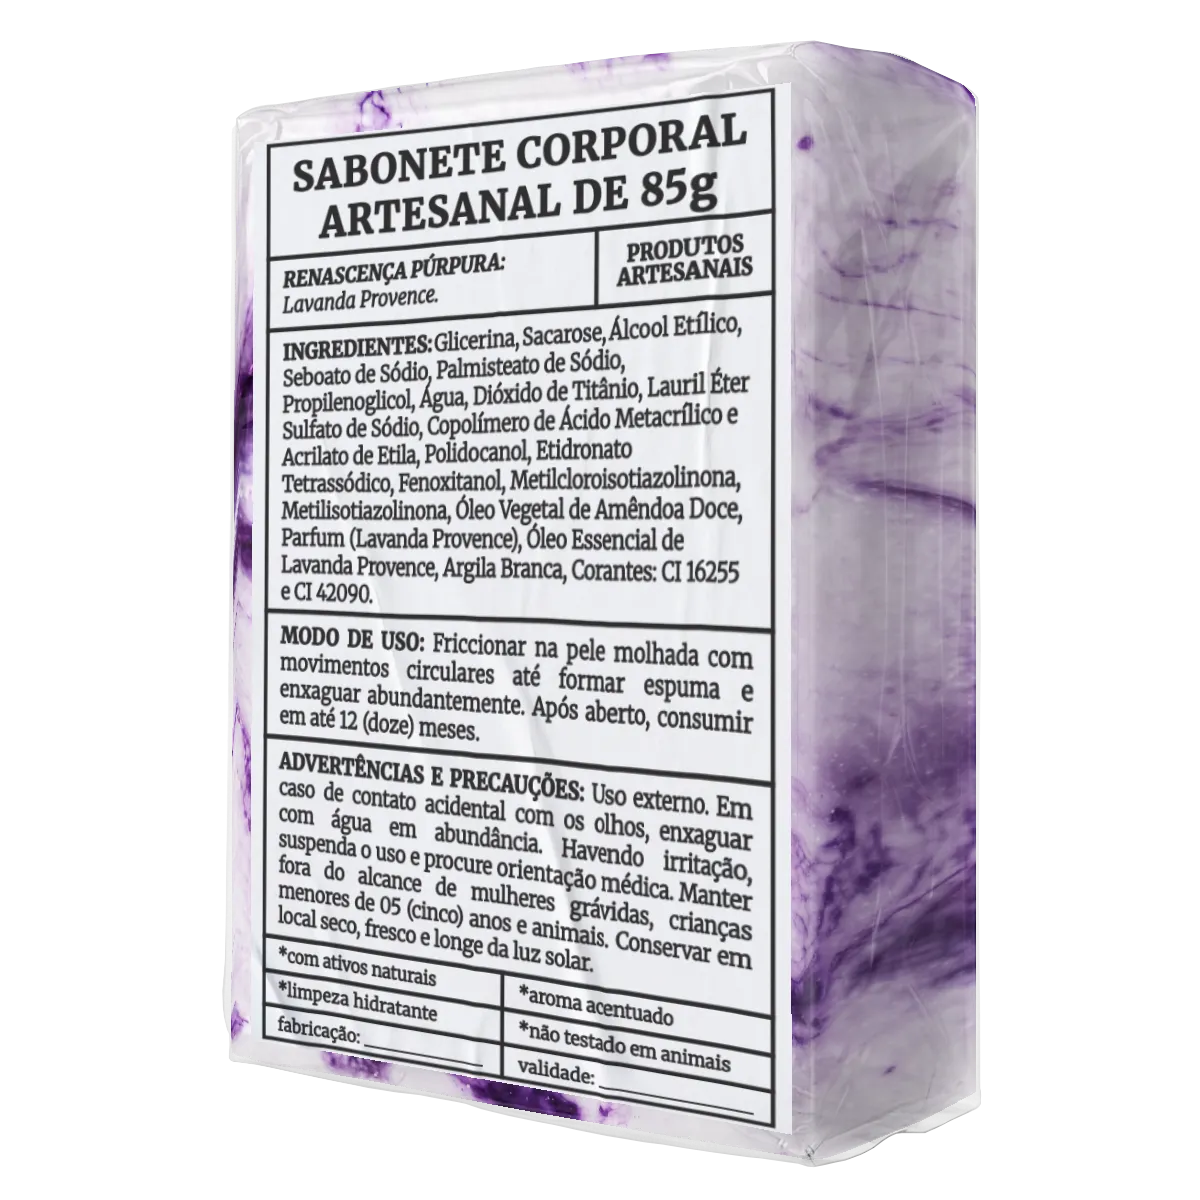
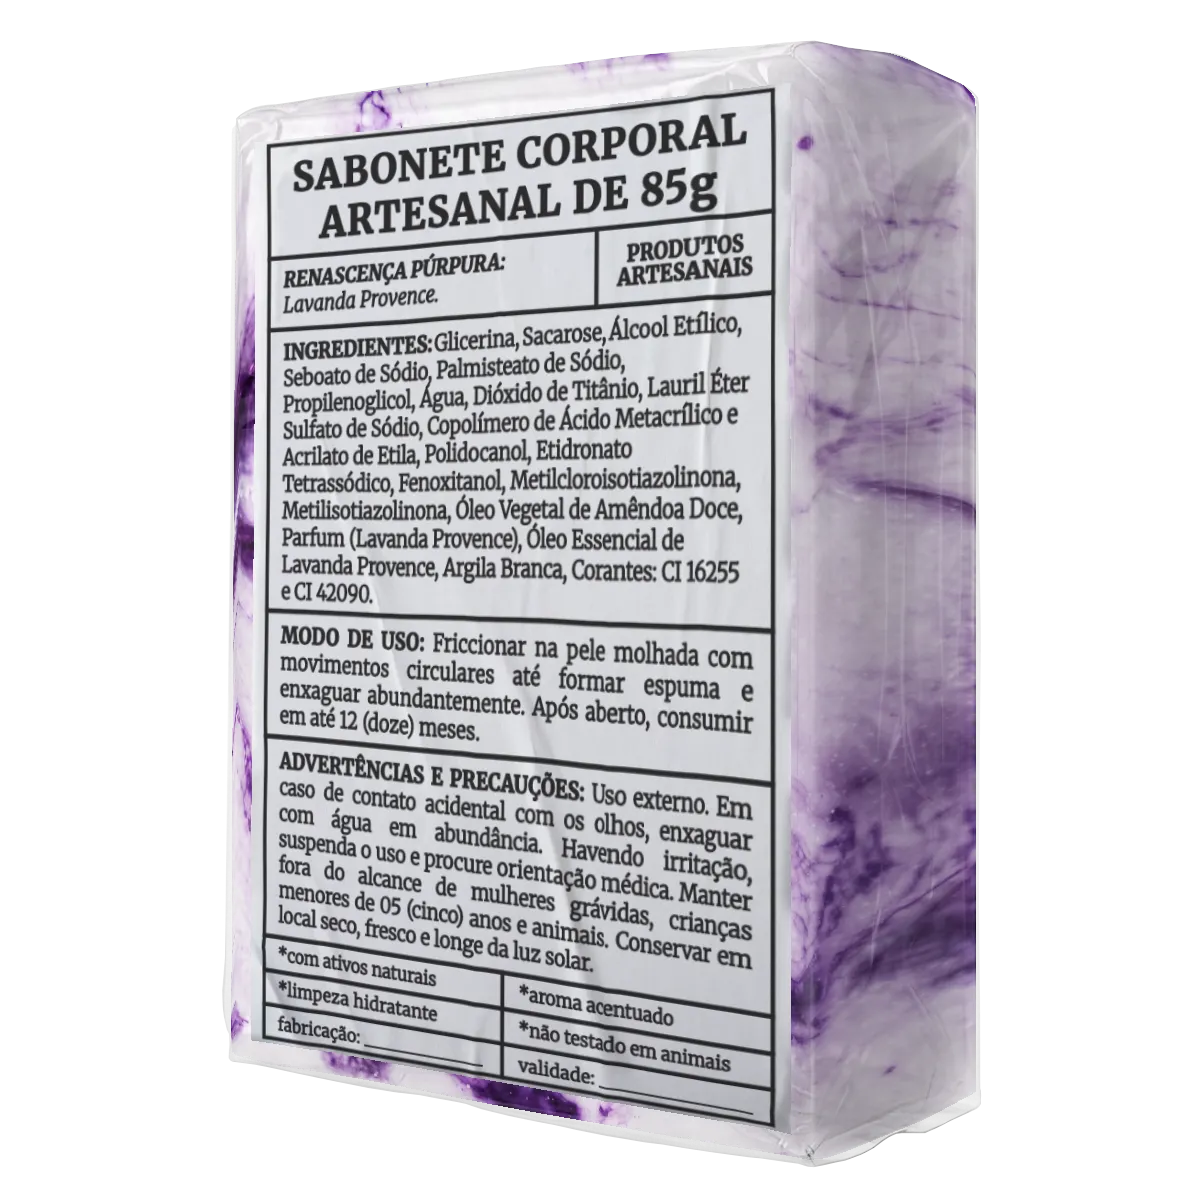
novo

diff --git a/produtos.js b/produtos.js
@@ -522,7 +522,7 @@ const BANCO_PRODUTOS = [
     precoDesconto: "",
     subtitulo: "[1 un. / 85g].",
     esgotado: false,
-    imagemFrente: "produtos/sabonete-corporal.webp",
+    imagemFrente: "produtos/sabonete-corporal-fruto-proibido.webp",
     tags: {
       linha: "linhas-classico",
       funcao: "funcao-sabonete-corporal",
